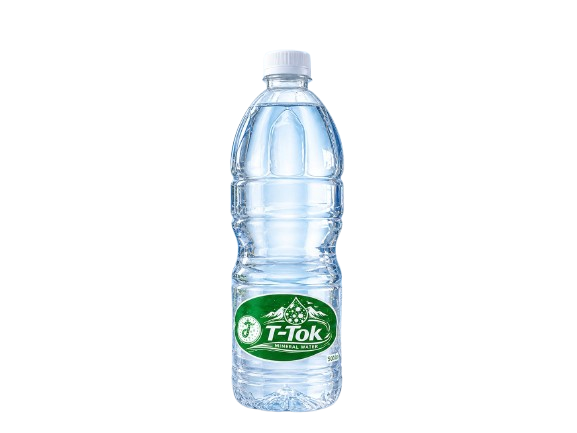
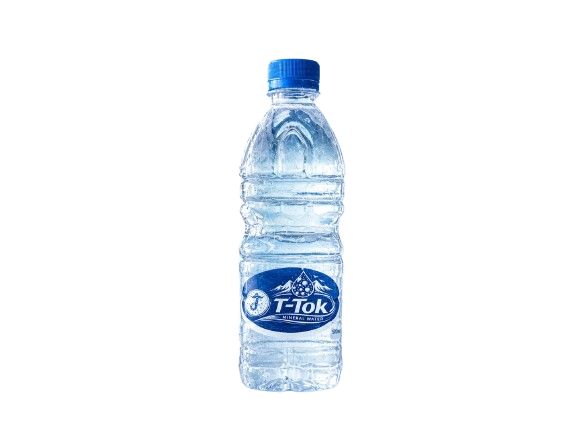
Refine product catalog entries and update bottle asset.
This removes the duplicate 5L entry, reassigns the 500ml card image, and refreshes the 19L bottle visual asset.

Changed region(s): [[0.3744, 0.1201, 0.6239, 0.9607]]

diff --git a/src/lib/site.ts b/src/lib/site.ts
@@ -37,7 +37,7 @@ export const PRODUCTS: Product[] = [
     size: "500 ml",
     description: "Perfect on-the-go hydration. Lightweight, sealed, and pure.",
     category: "water",
-    image: product500ml,
+    image: product19l,
   },
   {
     slug: "1-5-liter",
@@ -46,14 +46,6 @@ export const PRODUCTS: Product[] = [
     description: "Ideal for desks, lunchboxes, and short trips.",
     category: "water",
     image: product15l,
-  },
-  {
-    slug: "5-liter",
-    name: "5 Liter Bottle",
-    size: "5 L",
-    description: "A reliable household choice for everyday drinking water.",
-    category: "water",
-    image: product19l,
   },
   {
     slug: "5-liter-cooler",